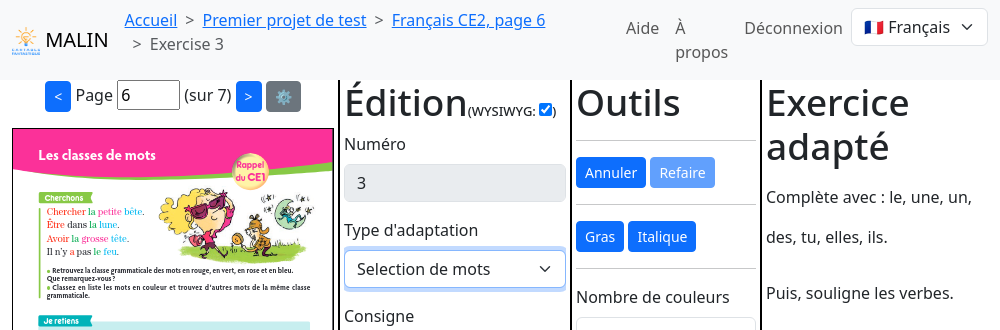
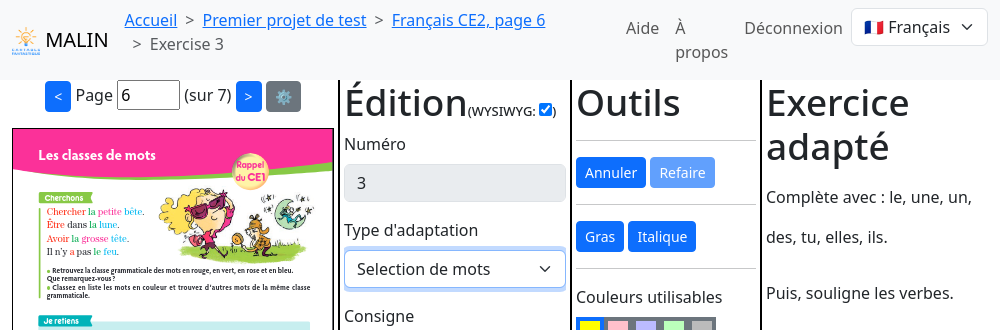
Set the number of colors in a "Select words" by clicking the colors

Changed region(s): [[0.558, 0.8788, 0.744, 1.0]]

diff --git a/frontend/src/frontend/components/AdaptationDetailsFieldsForm.vue b/frontend/src/frontend/components/AdaptationDetailsFieldsForm.vue
@@ -79,6 +79,7 @@ import { BLabeledInput, BLabeledCheckbox } from './opinion/bootstrap'
 import { BButton } from './opinion/bootstrap'
 import type { Model } from './ExerciseFieldsForm.vue'
 import type ExerciseFieldsForm from './ExerciseFieldsForm.vue'
+import { colors } from '$adapted/components/SelectedText.vue'
 
 
 defineProps<{
@@ -96,28 +97,54 @@ const model = defineModel<Model>({required: true})
     <BLabeledInput :label="$t('placeholderText')" type="text" v-model="model.fillWithFreeTextAdaptationOptions.placeholder" />
   </template>
   <template v-else-if="model.adaptationType === 'selectThingsAdaptation'">
-    <BLabeledInput :label="$t('colorsCount')" type="number" min="1" v-model="model.selectThingsAdaptationOptions.colors" />
     <template v-if="wysiwyg">
-      <p><template v-for="i in model.selectThingsAdaptationOptions.colors">
-        <BButton sm primary :disabled="fields.focusedWysiwygField === null || fields.focusedWysiwygField === 'wording'" @click="fields.toggle('sel', i)">{{ i }}</BButton>
-        <wbr>
-      </template></p>
+      <div class="mb-3">
+        <label class="form-label" for="blah">{{ $t('usableColors' )}}</label>
+        <span class="maybe-usable-colors-container">
+          <template v-for="i in colors.length">
+            <span :class="i <= model.selectThingsAdaptationOptions.colors ? 'usable-colors-container' : 'unusable-colors-container'">
+              <span
+                class="usable-colors-button"
+                :style="{backgroundColor: colors[i - 1]}"
+                :data-cy-colors="i"
+                @click="model.selectThingsAdaptationOptions.colors = i"
+              ></span>
+            </span>
+          </template>
+        </span>
+      </div>
+      <div class="mb-3">
+        <label class="form-label" for="blah">{{ $t('formatWithColor' )}}</label>
+        <p><template v-for="i in model.selectThingsAdaptationOptions.colors">
+          <BButton
+            sm primary
+            :disabled="fields.focusedWysiwygField === null || fields.focusedWysiwygField === 'wording'"
+            @click="fields.toggle('sel', i)" :style="{lineHeight: 0, padding: '2px'}"
+          >
+            <span class="usable-colors-button" :data-cy-colors="i" :style="{backgroundColor: colors[i - 1]}"></span>
+          </BButton>
+          <wbr>
+        </template></p>
+      </div>
     </template>
-    <p v-else class="alert alert-secondary">
-      <i18n-t keypath="useSel1ToSelN" v-if="model.selectThingsAdaptationOptions.colors > 1">
-        <template v-slot:first>
-          <code>{sel1|<em>text</em>}</code>
-        </template>
-        <template v-slot:last>
-          <code>{sel{{ model.selectThingsAdaptationOptions.colors }}|<em>text</em>}</code>
-        </template>
-      </i18n-t>
-      <i18n-t keypath="useSel1" v-else>
-        <template v-slot:first>
-          <code>{sel1|<em>text</em>}</code>
-        </template>
-      </i18n-t>
-    </p>
+    <template v-else>
+      <BLabeledInput :label="$t('colorsCount')" type="number" min="1" v-model="model.selectThingsAdaptationOptions.colors" />
+      <p class="alert alert-secondary">
+        <i18n-t keypath="useSel1ToSelN" v-if="model.selectThingsAdaptationOptions.colors > 1">
+          <template v-slot:first>
+            <code>{sel1|<em>text</em>}</code>
+          </template>
+          <template v-slot:last>
+            <code>{sel{{ model.selectThingsAdaptationOptions.colors }}|<em>text</em>}</code>
+          </template>
+        </i18n-t>
+        <i18n-t keypath="useSel1" v-else>
+          <template v-slot:first>
+            <code>{sel1|<em>text</em>}</code>
+          </template>
+        </i18n-t>
+      </p>
+    </template>
     <BLabeledCheckbox :label="$t('includePunctuation')" v-model="model.selectThingsAdaptationOptions.punctuation" />
   </template>
   <template v-else-if="model.adaptationType === 'multipleChoicesInInstructionsAdaptation'">
@@ -146,6 +173,31 @@ const model = defineModel<Model>({required: true})
     <span>{{ ((t: never) => t)(model.adaptationType) }}</span>
   </template>
 </template>
+
+<style scoped>
+span.maybe-usable-colors-container {
+  display: block flow-root;
+  line-height: 0;
+}
+
+span.usable-colors-container {
+  display: inline flow-root;
+  background-color: var(--bs-primary);
+}
+
+span.unusable-colors-container {
+  display: inline flow-root;
+  background-color: var(--bs-secondary);
+}
+
+span.usable-colors-button {
+  display: inline flow-root;
+  margin: 0.25em;
+  width: 1.25em;
+  height: 1.25em;
+  cursor: pointer;
+}
+</style>
 
 <style>
 div.ql-editor choice-blot {

diff --git a/frontend/e2e-tests/wysiwyg-edition.cy.ts b/frontend/e2e-tests/wysiwyg-edition.cy.ts
@@ -129,19 +129,19 @@ describe('Gabby', () => {
     setAliases()
     cy.get('@number').type('test')
     cy.get('@adaptationType').select('selectThingsAdaptation')
-    cy.get('label:contains("Number of colors") + input').type('{selectAll}2')
+    cy.get('maybe-usable-colors-container usable-colors-button[data-cy-colors="2"]').click()
 
-    cy.get('button:contains("1")').should('be.disabled')
-    cy.get('button:contains("2")').should('be.disabled')
-    cy.get('button:contains("3")').should('not.exist')
+    cy.get('button:has(usable-colors-button[data-cy-colors="1"])').as("button1").should('be.disabled')
+    cy.get('button:has(usable-colors-button[data-cy-colors="2"])').as("button2").should('be.disabled')
+    cy.get('button:has(usable-colors-button[data-cy-colors="3"])').should('not.exist')
 
     cy.get('@instructions').click()
-    cy.get('button:contains("1")').should('be.enabled')
-    cy.get('button:contains("2")').should('be.enabled')
+    cy.get('@button1').should('be.enabled')
+    cy.get('@button2').should('be.enabled')
     cy.get('@instructions').type('plain')
-    cy.get('button:contains("1")').click()
+    cy.get('@button1').click()
     cy.get('@instructions').type('sel1')
-    cy.get('button:contains("2")').click()
+    cy.get('@button2').click()
     cy.get('@instructions').type('sel2')
     cy.get('sel-blot[data-sel="1"]:contains("sel1")').should('exist')
     cy.get('sel-blot[data-sel="2"]:contains("sel2")').should('exist')
@@ -149,16 +149,16 @@ describe('Gabby', () => {
     cy.get('sel-blot').should('not.exist')
 
     cy.get('@wording').click()
-    cy.get('button:contains("1")').should('be.disabled')
-    cy.get('button:contains("2")').should('be.disabled')
+    cy.get('@button1').should('be.disabled')
+    cy.get('@button2').should('be.disabled')
 
     cy.get('@exampleHeader').click()
-    cy.get('button:contains("1")').should('be.enabled')
-    cy.get('button:contains("2")').should('be.enabled')
+    cy.get('@button1').should('be.enabled')
+    cy.get('@button2').should('be.enabled')
     cy.get('@example').type('plain')
-    cy.get('button:contains("1")').click()
+    cy.get('@button1').click()
     cy.get('@example').type('sel1')
-    cy.get('button:contains("2")').click()
+    cy.get('@button2').click()
     cy.get('@example').type('sel2')
     cy.get('sel-blot[data-sel="1"]:contains("sel1")').should('exist')
     cy.get('sel-blot[data-sel="2"]:contains("sel2")').should('exist')
@@ -166,12 +166,12 @@ describe('Gabby', () => {
     cy.get('sel-blot').should('not.exist')
 
     cy.get('@clueHeader').click()
-    cy.get('button:contains("1")').should('be.enabled')
-    cy.get('button:contains("2")').should('be.enabled')
+    cy.get('@button1').should('be.enabled')
+    cy.get('@button2').should('be.enabled')
     cy.get('@clue').type('plain')
-    cy.get('button:contains("1")').click()
+    cy.get('@button1').click()
     cy.get('@clue').type('sel1')
-    cy.get('button:contains("2")').click()
+    cy.get('@button2').click()
     cy.get('@clue').type('sel2')
     cy.get('sel-blot[data-sel="1"]:contains("sel1")').should('exist')
     cy.get('sel-blot[data-sel="2"]:contains("sel2")').should('exist')

diff --git a/frontend/src/adapted/components/SelectedText.vue b/frontend/src/adapted/components/SelectedText.vue
@@ -1,3 +1,18 @@
+<script lang="ts">
+// Keep this array consistent with the 'style' section in 'AdaptationDetailsFieldsForm.vue'
+export const colors = [
+  // Colors provided by the client
+  "#ffff00",  // yellow
+  "#ffc0cb",  // pink (light red)
+  "#bbbbff",  // light blue
+  "#bbffbb",  // light green
+  "#bbbbbb",  // grey
+  // Colors suggested by Vincent Jacques on the same pattern
+  // "#bbffff",  // light cyan
+  // "#ffbbff",  // light magenta
+]
+</script>
+
 <script setup lang="ts">
 import { computed } from 'vue'
 
@@ -6,19 +21,6 @@ const props = defineProps<{
   colors: number,
   color: number,
 }>()
-
-// Keep this array consistent with the 'style' section in 'AdaptationDetailsFieldsForm.vue'
-const colors = [
-  // Colors provided by the client
-  "#ffff00",  // yellow
-  "#ffc0cb",  // pink (light red)
-  "#bbbbff",  // light blue
-  "#bbffbb",  // light green
-  "#bbbbbb",  // grey
-  // Colors added by Vincent Jacques on the same pattern
-  "#bbffff",  // light cyan
-  "#ffbbff",  // light magenta
-]
 
 const style = computed(() => ({
   background: colors[props.color - 1],

diff --git a/frontend/e2e-tests/demo.cy.ts b/frontend/e2e-tests/demo.cy.ts
@@ -71,7 +71,7 @@ describe('Gabby', () => {
     setupAliases()
 
     cy.get('@adaptationType').select('selectThingsAdaptation').blur()
-    cy.get('label:contains("Number of colors") + input').type('{selectAll}2', {delay: 0})
+    cy.get('maybe-usable-colors-container usable-colors-button[data-cy-colors="2"]').click()
 
     traceRectangle('@canvas', 8, 5, 60, 9)
     cy.get('button:contains("Instructions")').click()
@@ -81,13 +81,13 @@ describe('Gabby', () => {
       console.assert(node !== null)
       selectRange(node, 39, node, 51)
     })
-    cy.get('button:contains("2")').click()
+    cy.get('button:has(usable-colors-button[data-cy-colors="2"])').click()
     cy.get('@instructions').find('p').then($el => {
       const node = $el[0].firstChild
       console.assert(node !== null)
       selectRange(node, 25, node, 31)
     })
-    cy.get('button:contains("1")').click()
+    cy.get('button:has(usable-colors-button[data-cy-colors="1"])').click()
     notBusy()
 
     traceRectangle('@canvas', 7, 9.5, 92, 19)

diff --git a/frontend/e2e-tests/textbook-exercise-creation.cy.ts b/frontend/e2e-tests/textbook-exercise-creation.cy.ts
@@ -56,7 +56,7 @@ describe('Gabby', () => {
   })
 
   it('creates a full exercise', () => {
-    visit('/project-xkopqm/textbook-klxufv/page-6/new-exercise')
+    visit('/project-xkopqm/textbook-klxufv/page-6/new-exercise', {wysiwyg: false})
 
     cy.get('label:contains("Number")').next().type('Défis')
     cy.get('label:contains("Instructions")').next().type('Do the smartest thing ever.')
